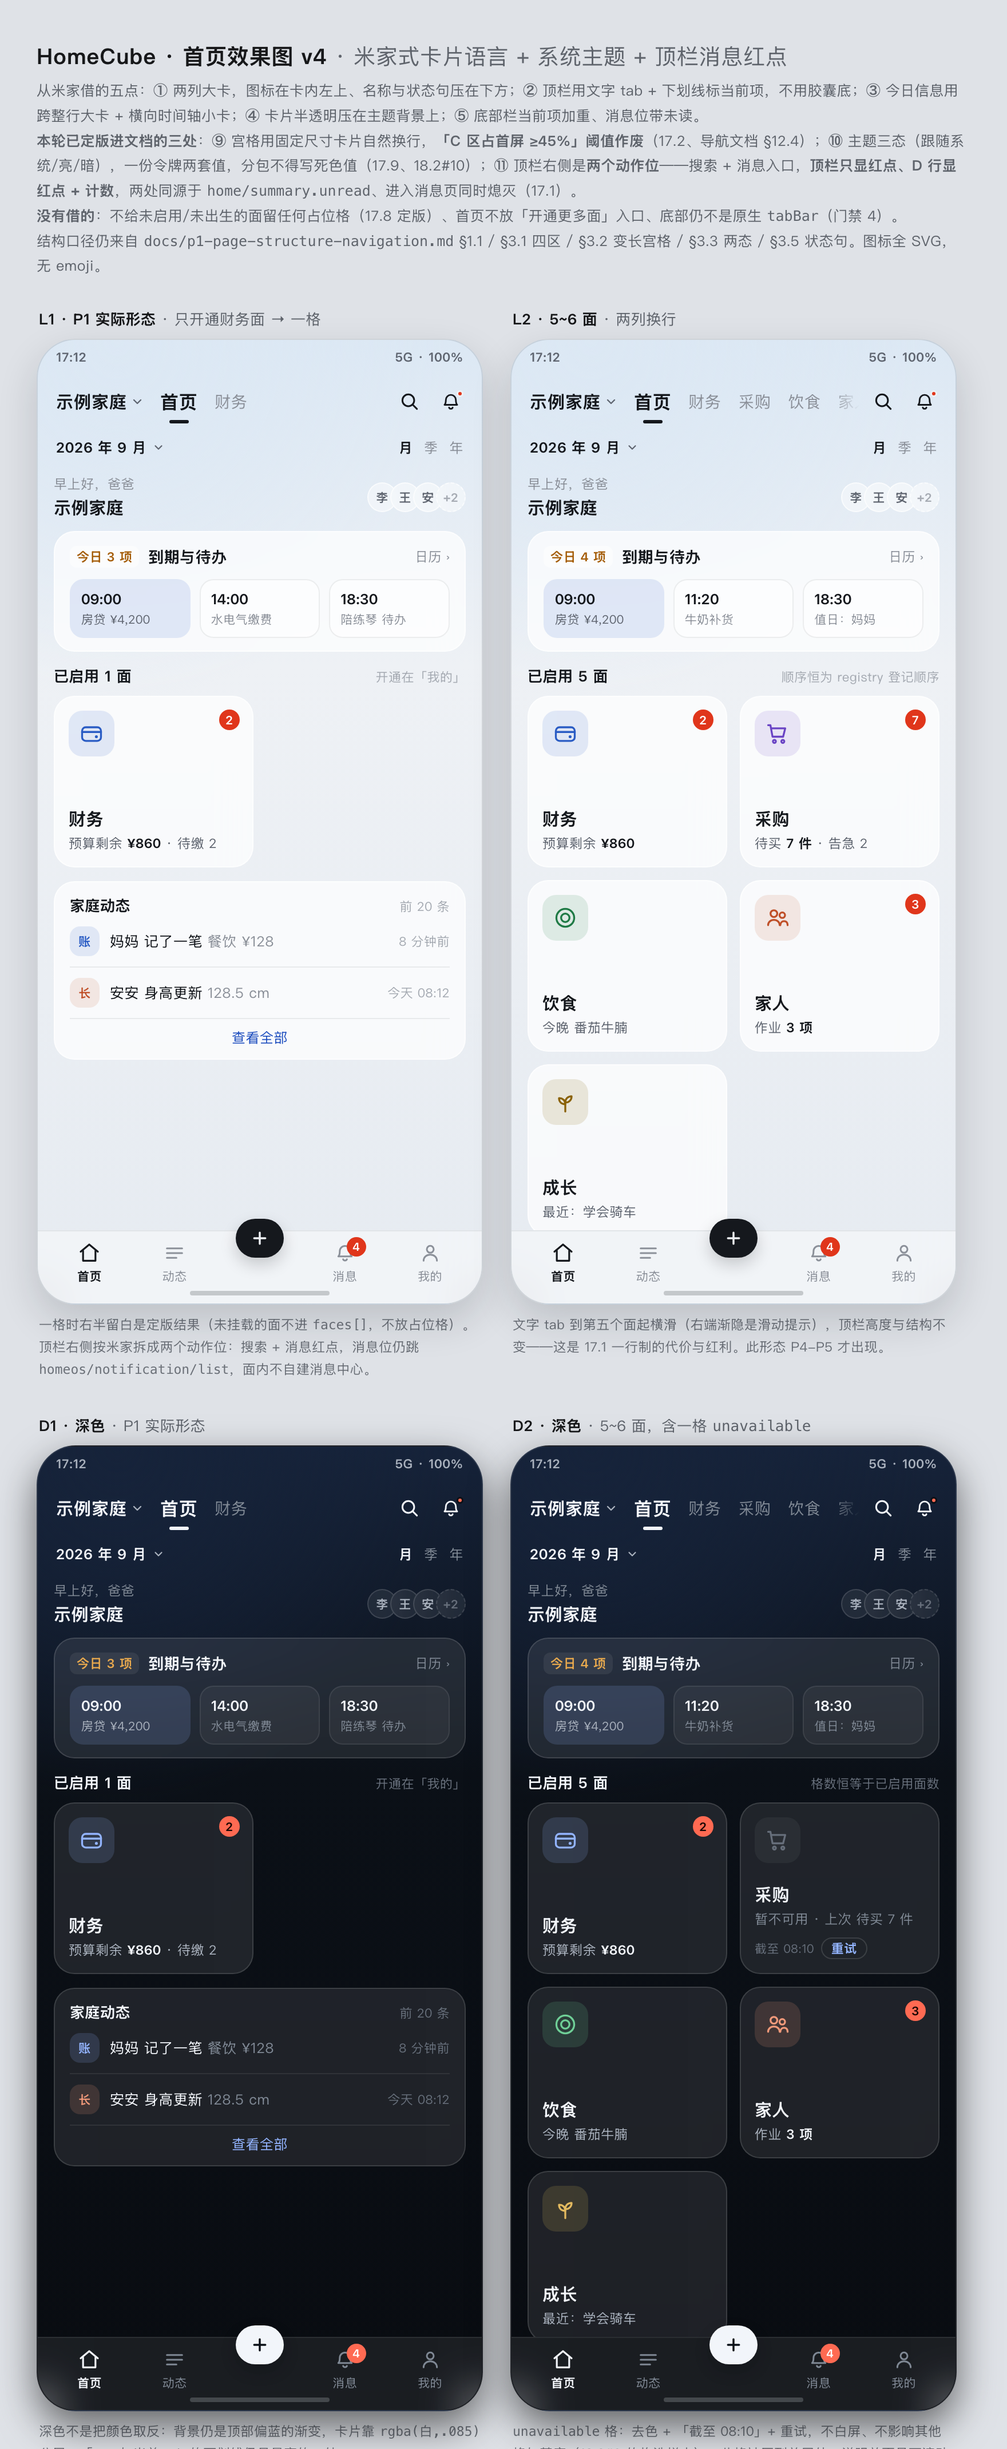
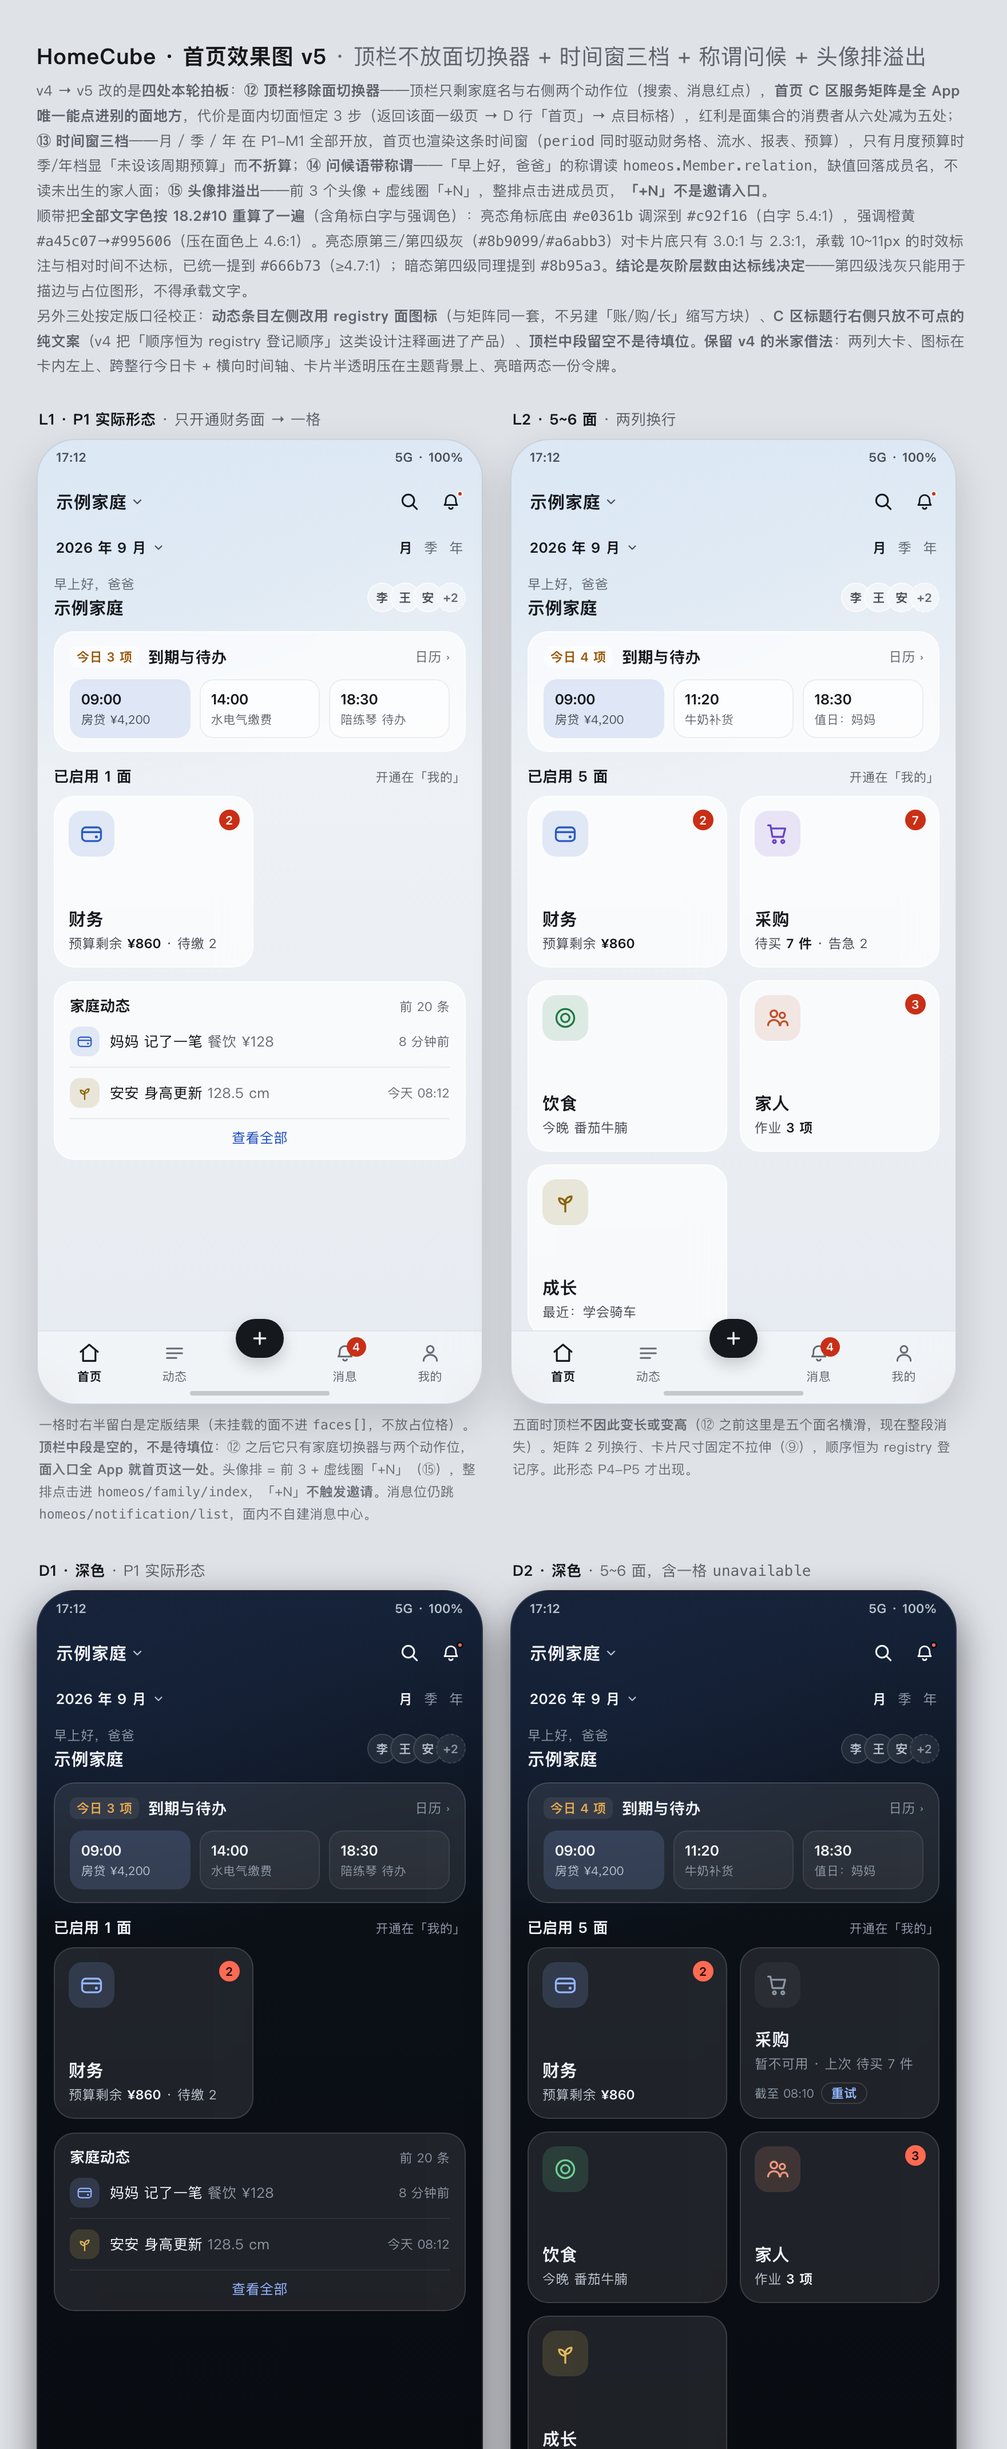
docs: 首页效果图 v5（顶栏只剩家庭名与两个动作位，四帧重出）
⑫ 把面切换器从顶栏拿掉后，效果图里那张「面名横滑条」就是错的参照物；
顺带把动态条目的事件缩写方块换成 registry 面图标，让矩阵与条目图标同源。

灰阶是复核出来的真缺陷：亮态第三/四级灰实测 3.0:1 与 2.3:1，够不到正文
4.5:1 的线，本轮按达标线重算令牌而不是只改效果图，规则已进 PRD 17.9。

diff --git a/docs/mockup-home.html b/docs/mockup-home.html
@@ -2,7 +2,7 @@
 <html lang="zh-CN">
 <head>
 <meta charset="utf-8">
-<title>HomeCube · 首页效果图 v3（米家式卡片语言 + 系统主题）</title>
+<title>HomeCube · 首页效果图 v5（顶栏无面入口 + 时间窗三档 + 称谓问候）</title>
 <style>
   * { box-sizing: border-box; margin: 0; padding: 0; }
   body { font-family: -apple-system, "PingFang SC", "Helvetica Neue", sans-serif;
@@ -20,8 +20,8 @@
     --sky1: #dce8f4; --sky2: #eef1f5; --sky3: #e6ebf1;
     --glass: rgba(255,255,255,.70); --glass2: rgba(255,255,255,.52);
     --stroke: rgba(255,255,255,.62); --stroke2: rgba(20,24,30,.07);
-    --tx: #15181d; --tx2: #5f6570; --tx3: #8b9099; --tx4: #a6abb3;
-    --accent: #1f4fbf; --danger: #e0361b; --warn: #a45c07;
+    --tx: #15181d; --tx2: #4a4f57; --tx3: #666b73; --tx4: #666b73;
+    --accent: #1f4fbf; --danger: #c92f16; --warn: #995606;
     --band: rgba(255,255,255,.44);
     --t-fin: #2a5cc4; --t-fin-bg: rgba(42,92,196,.12);
     --t-pur: #6a44c4; --t-pur-bg: rgba(106,68,196,.12);
@@ -40,7 +40,7 @@
     --sky1: #16233a; --sky2: #0b1017; --sky3: #090c11;
     --glass: rgba(255,255,255,.085); --glass2: rgba(255,255,255,.05);
     --stroke: rgba(255,255,255,.13); --stroke2: rgba(255,255,255,.08);
-    --tx: #f2f5fa; --tx2: #a9b1bd; --tx3: #7f8894; --tx4: #666e7a;
+    --tx: #f2f5fa; --tx2: #b9c1cc; --tx3: #8b95a3; --tx4: #8b95a3;
     --accent: #93b4ff; --danger: #ff6a52; --warn: #e8a94e;
     --band: rgba(255,255,255,.07);
     --t-fin: #93b4ff; --t-fin-bg: rgba(147,180,255,.16);
@@ -57,19 +57,10 @@
 
   /* ============ 顶栏一行：文字 tab + 下划线（借米家） ============ */
   .topbar { height: 48px; flex: none; display: flex; align-items: center; gap: 6px; padding: 0 12px 0 16px; }
-  .fam { font-size: 15px; font-weight: 600; letter-spacing: .2px; flex: none; max-width: 96px;
+  .fam { font-size: 15px; font-weight: 600; letter-spacing: .2px; flex: 1; min-width: 0;
     display: flex; align-items: center; gap: 3px; }
   .fam b { overflow: hidden; text-overflow: ellipsis; white-space: nowrap; }
   .fam svg { width: 12px; height: 12px; color: var(--tx2); }
-  .tabs { display: flex; align-items: center; gap: 15px; overflow: hidden; flex: 1; height: 100%;
-    padding-left: 8px; -webkit-mask-image: linear-gradient(90deg,#000 0,#000 88%,transparent 100%);
-                          mask-image: linear-gradient(90deg,#000 0,#000 88%,transparent 100%); }
-  .tb { position: relative; display: flex; align-items: center; height: 100%; flex: none;
-    font-size: 14px; color: var(--tx3); white-space: nowrap; }
-  .tb.on { font-size: 16px; font-weight: 600; color: var(--tx); }
-  .tb.on::after { content: ""; position: absolute; left: 50%; bottom: 5px; transform: translateX(-50%);
-    width: 17px; height: 3px; border-radius: 2px; background: var(--tx); }
-  .tb svg { width: 14px; height: 14px; margin-right: 3px; }
   .act { width: 30px; height: 30px; flex: none; display: flex; align-items: center; justify-content: center;
     color: var(--tx); position: relative; }
   .act svg { width: 19px; height: 19px; }
@@ -150,7 +141,8 @@
   .row { display: flex; align-items: center; gap: 9px; padding: 9px 0; border-bottom: 1px solid var(--stroke2); }
   .row:last-child { border-bottom: 0; }
   .dot { width: 26px; height: 26px; border-radius: 9px; flex: none; display: flex; align-items: center;
-    justify-content: center; font-size: 10.5px; font-weight: 600; }
+    justify-content: center; }
+  .dot svg { width: 15px; height: 15px; }
   .row .tx { font-size: 12.5px; line-height: 1.4; }
   .row .tx i { font-style: normal; color: var(--tx3); }
   .row .tm { margin-left: auto; font-size: 11px; color: var(--tx4); flex: none; }
@@ -178,12 +170,10 @@
 </style>
 </head>
 <body>
-<h1>HomeCube · 首页效果图 v4 <span style="font-weight:400;color:#5f646c">· 米家式卡片语言 + 系统主题 + 顶栏消息红点</span></h1>
+<h1>HomeCube · 首页效果图 v5 <span style="font-weight:400;color:#5f646c">· 顶栏不放面切换器 + 时间窗三档 + 称谓问候 + 头像排溢出</span></h1>
 <div class="sub">
-  从米家借的五点：<b>①</b> 两列大卡，图标在卡内左上、名称与状态句压在下方；<b>②</b> 顶栏用文字 tab + 下划线标当前项，不用胶囊底；<b>③</b> 今日信息用跨整行大卡 + 横向时间轴小卡；<b>④</b> 卡片半透明压在主题背景上；<b>⑤</b> 底部栏当前项加重、消息位带未读。<br>
-  <b>本轮已定版进文档的三处</b>：<b>⑨</b> 宫格用固定尺寸卡片自然换行，<b>「C 区占首屏 ≥45%」阈值作废</b>（17.2、导航文档 §12.4）；<b>⑩</b> 主题三态（跟随系统/亮/暗），一份令牌两套值，分包不得写死色值（17.9、18.2#10）；<b>⑪</b> 顶栏右侧是<b>两个动作位</b>——搜索 + 消息入口，<b>顶栏只显红点、D 行显红点 + 计数</b>，两处同源于 <code>home/summary.unread</code>、进入消息页同时熄灭（17.1）。<br>
-  <b>没有借的</b>：不给未启用/未出生的面留任何占位格（17.8 定版）、首页不放「开通更多面」入口、底部仍不是原生 <code>tabBar</code>（门禁 4）。<br>
-  结构口径仍来自 <code>docs/p1-page-structure-navigation.md</code> §1.1 / §3.1 四区 / §3.2 变长宫格 / §3.3 两态 / §3.5 状态句。图标全 SVG，无 emoji。
+  v4 → v5 改的是<b>四处本轮拍板</b>：<b>⑫ 顶栏移除面切换器</b>——顶栏只剩家庭名与右侧两个动作位（搜索、消息红点），<b>首页 C 区服务矩阵是全 App 唯一能点进别的面地方</b>，代价是面内切面恒定 3 步（返回该面一级页 → D 行「首页」→ 点目标格），红利是面集合的消费者从六处减为五处；<b>⑬ 时间窗三档</b>——月 / 季 / 年 在 P1-M1 全部开放，首页也渲染这条时间窗（<code>period</code> 同时驱动财务格、流水、报表、预算），只有月度预算时季/年档显「未设该周期预算」而<b>不折算</b>；<b>⑭ 问候语带称谓</b>——「早上好，爸爸」的称谓读 <code>homeos.Member.relation</code>，缺值回落成员名，不读未出生的家人面；<b>⑮ 头像排溢出</b>——前 3 个头像 + 虚线圈「+N」，整排点击进成员页，<b>「+N」不是邀请入口</b>。<br>
+  顺带把<b>全部文字色按 18.2#10 重算了一遍</b>（含角标白字与强调色）：亮态角标底由 <code>#e0361b</code> 调深到 <code>#c92f16</code>（白字 5.4:1），强调橙黄 <code>#a45c07</code>→<code>#995606</code>（压在面色上 4.6:1）。亮态原第三/第四级灰（<code>#8b9099</code>/<code>#a6abb3</code>）对卡片底只有 3.0:1 与 2.3:1，承载 10~11px 的时效标注与相对时间不达标，已统一提到 <code>#666b73</code>（≥4.7:1）；暗态第四级同理提到 <code>#8b95a3</code>。<b>结论是灰阶层数由达标线决定</b>——第四级浅灰只能用于描边与占位图形，不得承载文字。<br>另外三处按定版口径校正：<b>动态条目左侧改用 registry 面图标</b>（与矩阵同一套，不另建「账/购/长」缩写方块）、<b>C 区标题行右侧只放不可点的纯文案</b>（v4 把「顺序恒为 registry 登记顺序」这类设计注释画进了产品）、<b>顶栏中段留空不是待填位</b>。<b>保留 v4 的米家借法</b>：两列大卡、图标在卡内左上、跨整行今日卡 + 横向时间轴、卡片半透明压在主题背景上、亮暗两态一份令牌。
 </div>
 
 <svg style="display:none">
@@ -211,7 +201,6 @@
       <div class="status"><span>17:12</span><span>5G · 100%</span></div>
       <div class="topbar">
         <div class="fam"><b>示例家庭</b><svg><use href="#i-chev"/></svg></div>
-        <div class="tabs"><div class="tb on">首页</div><div class="tb">财务</div></div>
         <div class="act"><svg><use href="#i-search"/></svg></div>
         <div class="act"><svg><use href="#i-bell"/></svg><span class="rd"></span></div>
       </div>
@@ -233,15 +222,15 @@
         </div>
         <div class="d">
           <div class="sec" style="margin:8px 0 0"><span class="h">家庭动态</span><span class="s">前 20 条</span></div>
-          <div class="row"><span class="dot t-fin">账</span><p class="tx">妈妈 记了一笔 <i>餐饮 ¥128</i></p><span class="tm">8 分钟前</span></div>
-          <div class="row"><span class="dot t-kin">长</span><p class="tx">安安 身高更新 <i>128.5 cm</i></p><span class="tm">今天 08:12</span></div>
+          <div class="row"><span class="dot t-fin"><svg><use href="#i-wallet"/></svg></span><p class="tx">妈妈 记了一笔 <i>餐饮 ¥128</i></p><span class="tm">8 分钟前</span></div>
+          <div class="row"><span class="dot t-gro"><svg><use href="#i-sprout"/></svg></span><p class="tx">安安 身高更新 <i>128.5 cm</i></p><span class="tm">今天 08:12</span></div>
           <div class="all">查看全部</div>
         </div>
       </div>
       <div class="dock"><div class="tab on"><svg><use href="#i-home"/></svg>首页</div><div class="tab"><svg><use href="#i-feed"/></svg>动态</div><div class="plus"><div class="p"><svg><use href="#i-plus"/></svg></div></div><div class="tab"><svg><use href="#i-bell"/></svg>消息<span class="cnt">4</span></div><div class="tab"><svg><use href="#i-me"/></svg>我的</div></div>
       <div class="homebar"></div>
     </div>
-    <p class="note">一格时右半留白是定版结果（未挂载的面不进 <code>faces[]</code>，不放占位格）。顶栏右侧按米家拆成两个动作位：搜索 + 消息红点，消息位仍跳 <code>homeos/notification/list</code>，面内不自建消息中心。</p>
+    <p class="note">一格时右半留白是定版结果（未挂载的面不进 <code>faces[]</code>，不放占位格）。<b>顶栏中段是空的，不是待填位</b>：⑫ 之后它只有家庭切换器与两个动作位，<b>面入口全 App 就首页这一处</b>。头像排 = 前 3 + 虚线圈「+N」（⑮），整排点击进 <code>homeos/family/index</code>，「+N」<b>不触发邀请</b>。消息位仍跳 <code>homeos/notification/list</code>，面内不自建消息中心。</p>
   </div>
 
   <!-- 亮 · 5 面 -->
@@ -251,7 +240,6 @@
       <div class="status"><span>17:12</span><span>5G · 100%</span></div>
       <div class="topbar">
         <div class="fam"><b>示例家庭</b><svg><use href="#i-chev"/></svg></div>
-        <div class="tabs"><div class="tb on">首页</div><div class="tb">财务</div><div class="tb">采购</div><div class="tb">饮食</div><div class="tb">家人</div><div class="tb">成长</div></div>
         <div class="act"><svg><use href="#i-search"/></svg></div>
         <div class="act"><svg><use href="#i-bell"/></svg><span class="rd"></span></div>
       </div>
@@ -267,7 +255,7 @@
             <div class="mini"><p class="tm">18:30</p><p class="lb">值日：妈妈</p></div>
           </div>
         </div>
-        <div class="sec"><span class="h">已启用 5 面</span><span class="s">顺序恒为 registry 登记顺序</span></div>
+        <div class="sec"><span class="h">已启用 5 面</span><span class="s">开通在「我的」</span></div>
         <div class="grid">
           <div class="cell"><div class="ic t-fin"><svg><use href="#i-wallet"/></svg></div><div class="nm">财务</div><div class="hl">预算剩余 <b>¥860</b></div><div class="bdg">2</div></div>
           <div class="cell"><div class="ic t-pur"><svg><use href="#i-cart"/></svg></div><div class="nm">采购</div><div class="hl">待买 <b>7 件</b> · 告急 2</div><div class="bdg">7</div></div>
@@ -277,14 +265,14 @@
         </div>
         <div class="d">
           <div class="sec" style="margin:8px 0 0"><span class="h">家庭动态</span><span class="s">前 20 条</span></div>
-          <div class="row"><span class="dot t-pur">购</span><p class="tx">清单「周末采购」买齐 <i>已生成 6 笔流水</i></p><span class="tm">12 分钟前</span></div>
+          <div class="row"><span class="dot t-pur"><svg><use href="#i-cart"/></svg></span><p class="tx">清单「周末采购」买齐 <i>已生成 6 笔流水</i></p><span class="tm">12 分钟前</span></div>
           <div class="all">查看全部</div>
         </div>
       </div>
       <div class="dock"><div class="tab on"><svg><use href="#i-home"/></svg>首页</div><div class="tab"><svg><use href="#i-feed"/></svg>动态</div><div class="plus"><div class="p"><svg><use href="#i-plus"/></svg></div></div><div class="tab"><svg><use href="#i-bell"/></svg>消息<span class="cnt">4</span></div><div class="tab"><svg><use href="#i-me"/></svg>我的</div></div>
       <div class="homebar"></div>
     </div>
-    <p class="note">文字 tab 到第五个面起横滑（右端渐隐是滑动提示），顶栏高度与结构不变——这是 17.1 一行制的代价与红利。此形态 P4-P5 才出现。</p>
+    <p class="note">五面时顶栏<b>不因此变长或变高</b>（⑫ 之前这里是五个面名横滑，现在整段消失）。矩阵 2 列换行、卡片尺寸固定不拉伸（⑨），顺序恒为 registry 登记序。此形态 P4-P5 才出现。</p>
   </div>
 
   <!-- 暗 · P1 一格 -->
@@ -294,7 +282,6 @@
       <div class="status"><span>17:12</span><span>5G · 100%</span></div>
       <div class="topbar">
         <div class="fam"><b>示例家庭</b><svg><use href="#i-chev"/></svg></div>
-        <div class="tabs"><div class="tb on">首页</div><div class="tb">财务</div></div>
         <div class="act"><svg><use href="#i-search"/></svg></div>
         <div class="act"><svg><use href="#i-bell"/></svg><span class="rd"></span></div>
       </div>
@@ -316,15 +303,15 @@
         </div>
         <div class="d">
           <div class="sec" style="margin:8px 0 0"><span class="h">家庭动态</span><span class="s">前 20 条</span></div>
-          <div class="row"><span class="dot t-fin">账</span><p class="tx">妈妈 记了一笔 <i>餐饮 ¥128</i></p><span class="tm">8 分钟前</span></div>
-          <div class="row"><span class="dot t-kin">长</span><p class="tx">安安 身高更新 <i>128.5 cm</i></p><span class="tm">今天 08:12</span></div>
+          <div class="row"><span class="dot t-fin"><svg><use href="#i-wallet"/></svg></span><p class="tx">妈妈 记了一笔 <i>餐饮 ¥128</i></p><span class="tm">8 分钟前</span></div>
+          <div class="row"><span class="dot t-gro"><svg><use href="#i-sprout"/></svg></span><p class="tx">安安 身高更新 <i>128.5 cm</i></p><span class="tm">今天 08:12</span></div>
           <div class="all">查看全部</div>
         </div>
       </div>
       <div class="dock"><div class="tab on"><svg><use href="#i-home"/></svg>首页</div><div class="tab"><svg><use href="#i-feed"/></svg>动态</div><div class="plus"><div class="p"><svg><use href="#i-plus"/></svg></div></div><div class="tab"><svg><use href="#i-bell"/></svg>消息<span class="cnt">4</span></div><div class="tab"><svg><use href="#i-me"/></svg>我的</div></div>
       <div class="homebar"></div>
     </div>
-    <p class="note">深色不是把颜色取反：背景仍是顶部偏蓝的渐变，卡片靠 <code>rgba(白,.085)</code> 分层，「＋」与当前 tab 的下划线仍是最亮的一处。</p>
+    <p class="note">深色不是把颜色取反：背景仍是顶部偏蓝的渐变，卡片靠 <code>rgba(白,.085)</code> 分层，「＋」与 D 行当前项仍是最亮的一处。亮/暗/跟随系统三态共用一份令牌（⑩），两态逐屏对比度按 18.2#10 判定。</p>
   </div>
 
   <!-- 暗 · 5 面 + unavailable -->
@@ -334,7 +321,6 @@
       <div class="status"><span>17:12</span><span>5G · 100%</span></div>
       <div class="topbar">
         <div class="fam"><b>示例家庭</b><svg><use href="#i-chev"/></svg></div>
-        <div class="tabs"><div class="tb on">首页</div><div class="tb">财务</div><div class="tb">采购</div><div class="tb">饮食</div><div class="tb">家人</div><div class="tb">成长</div></div>
         <div class="act"><svg><use href="#i-search"/></svg></div>
         <div class="act"><svg><use href="#i-bell"/></svg><span class="rd"></span></div>
       </div>
@@ -350,7 +336,7 @@
             <div class="mini"><p class="tm">18:30</p><p class="lb">值日：妈妈</p></div>
           </div>
         </div>
-        <div class="sec"><span class="h">已启用 5 面</span><span class="s">格数恒等于已启用面数</span></div>
+        <div class="sec"><span class="h">已启用 5 面</span><span class="s">开通在「我的」</span></div>
         <div class="grid">
           <div class="cell"><div class="ic t-fin"><svg><use href="#i-wallet"/></svg></div><div class="nm">财务</div><div class="hl">预算剩余 <b>¥860</b></div><div class="bdg">2</div></div>
           <div class="cell off"><div class="ic"><svg><use href="#i-cart"/></svg></div><div class="nm">采购</div><div class="hl">暂不可用 · 上次 待买 7 件</div><div class="asof">截至 08:10 <span class="retry">重试</span></div></div>
@@ -362,7 +348,7 @@
       <div class="dock"><div class="tab on"><svg><use href="#i-home"/></svg>首页</div><div class="tab"><svg><use href="#i-feed"/></svg>动态</div><div class="plus"><div class="p"><svg><use href="#i-plus"/></svg></div></div><div class="tab"><svg><use href="#i-bell"/></svg>消息<span class="cnt">4</span></div><div class="tab"><svg><use href="#i-me"/></svg>我的</div></div>
       <div class="homebar"></div>
     </div>
-    <p class="note"><code>unavailable</code> 格：去色 + 「截至 08:10」+ 重试，不白屏、不影响其他格与基座（18.2#9 的构造样本）。此格被压到首屏外，说明首页是可滚动页。</p>
+    <p class="note"><code>unavailable</code> 格：与可用格<b>同尺寸同结构</b>、仅去色 + 「截至 08:10」+ 重试，不白屏、不影响其他格与基座（18.2#9 的构造样本）。「重试」= 重发一次 <code>home/summary</code>（必要时同时重走按需加载），失败保持原态，<b>不是新接口、不进离线队列</b>。此格被压到首屏外，说明首页是可滚动页。</p>
   </div>
 </div>
 </body>
